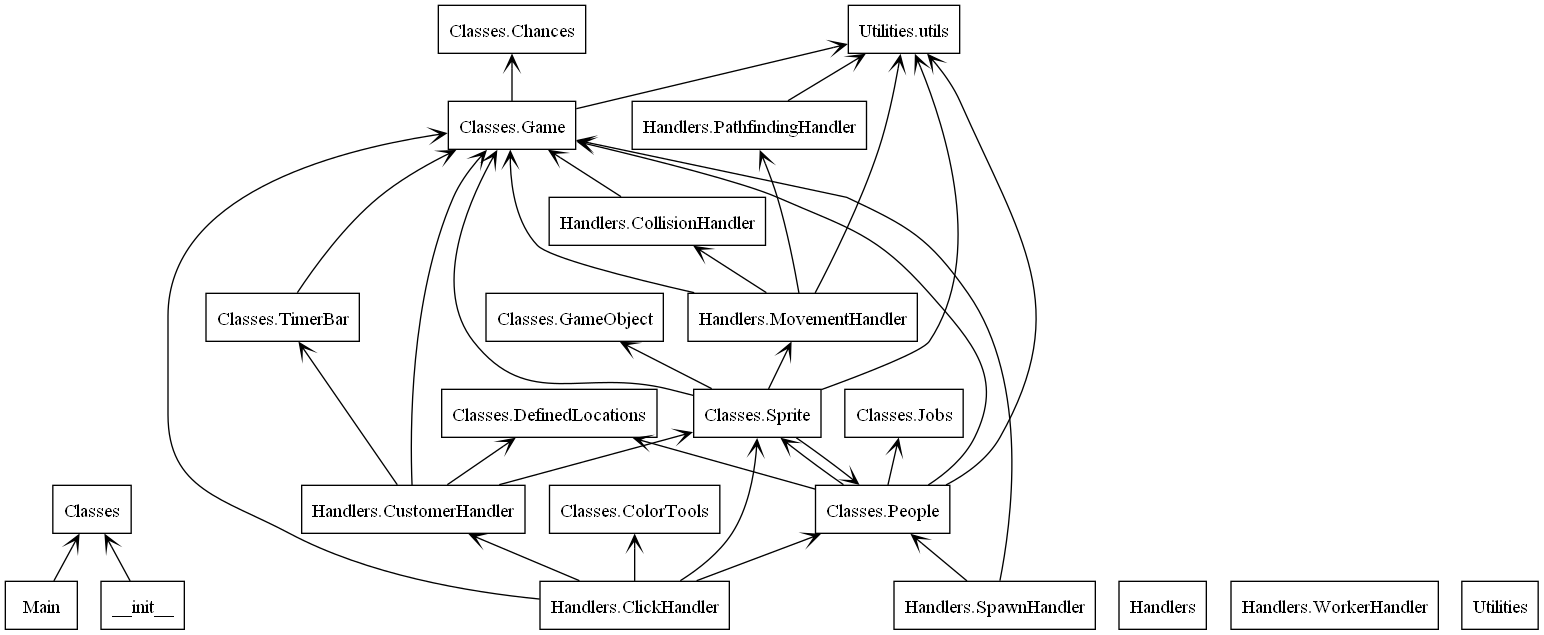
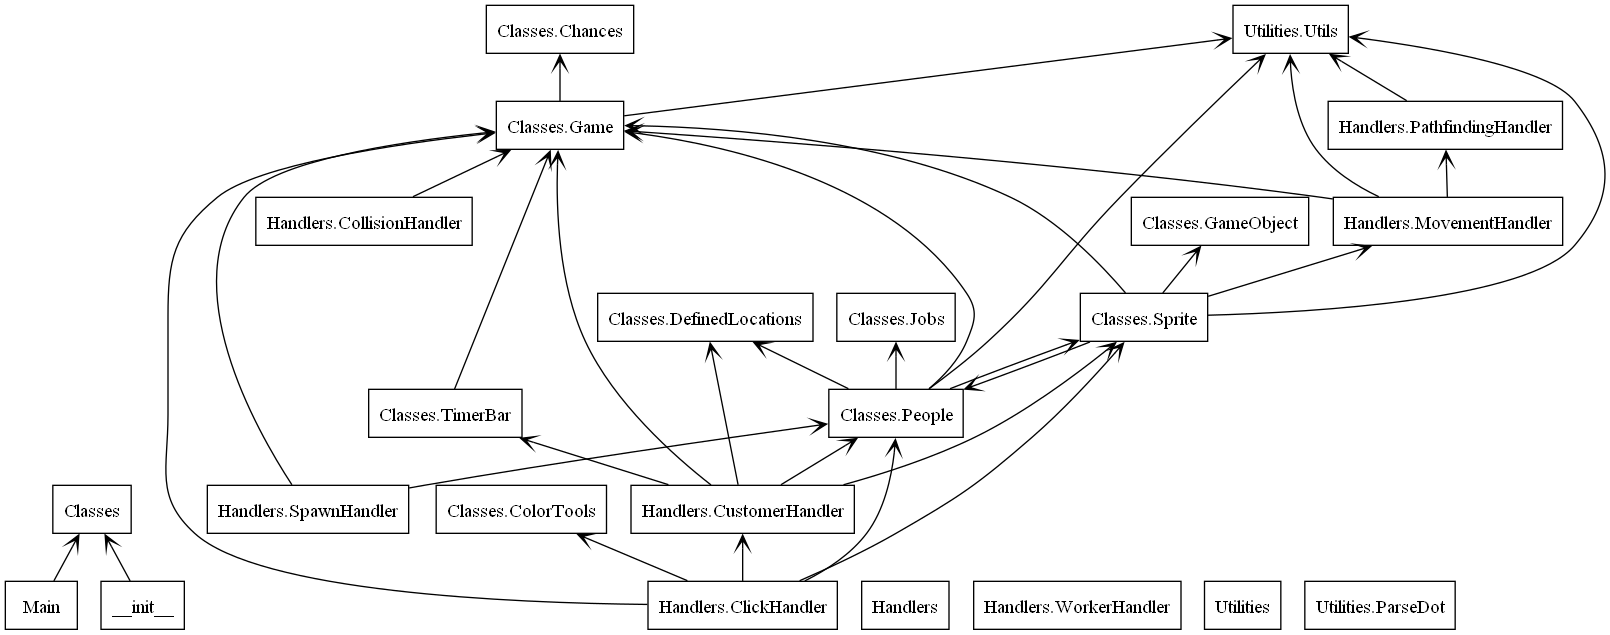
Added More Tools and Reformatting

diff --git a/Classes/People.py b/Classes/People.py
@@ -9,7 +9,7 @@ import Classes.Sprite as Sprite
 import Classes.DefinedLocations as DL
 import Utilities.Utils as utils
 
-IDCOUNT = 0
+IDCOUNT = 1
 
 
 @dataclass
@@ -47,7 +47,9 @@ class Worker(Person):
         worker = cls.Create()
         workerSprite = Sprite.CharImageSprite(
             utils.PositionRandomVariance(
-                DL.LocationDefs.KitchenLocation, (0.05, 0.75), Game.MasterGame.ScreenSize
+                DL.LocationDefs.KitchenLocation,
+                (0.05, 0.75),
+                Game.MasterGame.ScreenSize,
             ),
             Sprite.iPaths.WorkerPath,
             worker.IdNum,
@@ -58,14 +60,14 @@ class Worker(Person):
 
 
 class CustomerStates(Enum):
-    Queuing, Waiting, BeingServed, Served, LeavingAngry, *_ = range(100)
+    Null, Queuing, Waiting, BeingServed, Served, LeavingAngry, *_ = range(100)
 
 
 @dataclass
 class Customer(Person):
     DesiredJob: Jobs.Job = None
     WorkerAssigned: bool = False
-    CurrentState: CustomerStates = None
+    CurrentState: CustomerStates = CustomerStates.Null
 
     @classmethod
     def CreateCustomer(cls):
@@ -74,7 +76,9 @@ class Customer(Person):
         Game.MasterGame.JobList[-1].Assign(cust)
         customerSprite = Sprite.CharImageSprite(
             utils.PositionRandomVariance(
-                DL.LocationDefs.CustomerEntrance, (0.05, 0.1), Game.MasterGame.ScreenSize
+                DL.LocationDefs.CustomerEntrance,
+                (0.05, 0.1),
+                Game.MasterGame.ScreenSize,
             ),
             Sprite.iPaths.CustomerPath,
             cust.IdNum,

diff --git a/Utilities/Utils.py b/Utilities/Utils.py
@@ -4,7 +4,7 @@ import socket
 import random
 
 
-def CheckInternet(host="8.8.8.8", port=53, timeout=30):
+def CheckInternet(host="8.8.8.8", port=53, timeout=30) -> bool:
     """
     Host: 8.8.8.8 (google-public-dns-a.google.com)
     OpenPort: 53/tcp
@@ -18,12 +18,14 @@ def CheckInternet(host="8.8.8.8", port=53, timeout=30):
     return True
 
 
-def InRandomVariance(num, percentVariance):
+def InRandomVariance(num, percentVariance) -> float:
     varyAmount = random.randint(-100, 100) * percentVariance
     return num * varyAmount
 
 
-def PositionRandomVariance(position, percentVarianceTuple, screenSize):
+def PositionRandomVariance(
+    position, percentVarianceTuple, screenSize
+) -> tuple[int, int]:
     varyAmountX = math.ceil(
         (random.randint(-100, 100) * 0.01 * percentVarianceTuple[0] * screenSize[0])
         + position[0]
@@ -48,7 +50,7 @@ def InPercentTolerance(num1, num2, tolerance) -> bool:
     return abs(1 - (num1 / num2)) <= tolerance if num2 != 0 else 1
 
 
-def ProRateValue(value, inRange, outRange):
+def ProRateValue(value, inRange, outRange) -> int:
     return (
         value * abs(outRange[1] - outRange[0]) / abs(inRange[1] - inRange[0])
         if inRange[1] - inRange[0] != 0
@@ -56,7 +58,7 @@ def ProRateValue(value, inRange, outRange):
     )
 
 
-def Bind(val, inRange):
+def Bind(val, inRange) -> int:
     return min(inRange[1], max(inRange[0], val))
 
 

diff --git a/Classes/Sprite.py b/Classes/Sprite.py
@@ -20,7 +20,7 @@ iPaths = ImagePaths()
 
 
 class ImageTypes(Enum):
-    Worker, Customer, Table = range(3)
+    Null, Worker, Customer, Table = range(4)
 
 
 PathToTypeDict = {
@@ -32,8 +32,8 @@ PathToTypeDict = {
 
 class CharImageSprite(GameObj.GameObject):
     CorrespondingID: int = 0
-    ImageType: ImageTypes = None
-    rect: pygame.rect = None
+    ImageType: ImageTypes = ImageTypes.Null
+    rect: pygame.rect.Rect = pygame.rect.Rect(0, 0, 0, 0)
     MvmHandler: CharacterMovementHandler = None
 
     def __init__(self, position, path, objID):
@@ -41,6 +41,7 @@ class CharImageSprite(GameObj.GameObject):
         self.image = pygame.image.load(
             path
         )  # Replace with the actual sprite image file
+
         self.image = pygame.transform.scale_by(self.image, 0.1)
         self.rect = self.image.get_rect()
         self.rect.x = position[0]
@@ -69,7 +70,7 @@ class CharImageSprite(GameObj.GameObject):
 
 
 class BackgroundElementSprite(GameObj.GameObject):
-    ImageType: ImageTypes = None
+    ImageType: ImageTypes = ImageTypes.Null
 
     def __init__(self, position, path):
         super().__init__(backgroundFlag=True, moveFlag=False, collisionFlag=False)

diff --git a/Utilities/ParseDot.py b/Utilities/ParseDot.py
@@ -1,0 +1,33 @@
+"""Get stats from Dot file"""
+from dataclasses import dataclass
+
+
+@dataclass
+class Module:
+    NumDepends: int = 0
+    NumImports: int = 0
+    Name: str = ""
+
+    def __repr__(self):
+        return f"{self.Name} D:{self.NumDepends} I:{self.NumImports}"
+
+
+ModuleList: list[Module] = []
+
+with open("packages.dot", "r") as fp:
+    for line in fp:
+        if "->" in line:
+            importer = line.split(" ")[0].replace('"', "")
+            imported = line.split(" ")[2].replace('"', "")
+            # print(ModuleList, imported, importer)
+            importerModule = [x for x in ModuleList if x.Name == importer][0]
+            importedModule = [x for x in ModuleList if x.Name == imported][0]
+            importerModule.NumImports += 1
+            importedModule.NumDepends += 1
+        elif "[" in line:
+            modName = line.split(" ")[0].replace('"', "")
+            mod = Module(Name=modName)
+            ModuleList.append(mod)
+    x = sorted(ModuleList, key=lambda x: x.NumDepends, reverse=True)
+    for i in x:
+        print(i)

diff --git a/Classes/Game.py b/Classes/Game.py
@@ -39,7 +39,6 @@ class GameClock:
     ClockMul: float = 0.5
     Day: int = 1
     CurrentMonth: Month = Months[0]
-    Minute: int = 1
     Second: int = 1
 
     def __init__(self, clock):
@@ -97,8 +96,8 @@ class GameClock:
 
 class Game:
     ActiveTimerBars: list = []
-    CharSpriteGroup = pygame.sprite.Group()
-    BackgroundSpriteGroup = pygame.sprite.Group()
+    CharSpriteGroup: pygame.sprite.Group = pygame.sprite.Group()
+    BackgroundSpriteGroup: pygame.sprite.Group = pygame.sprite.Group()
     SpriteGroups: list = [BackgroundSpriteGroup, CharSpriteGroup]
     LineList: list = [(-1, -1), (1, 1)]
     WorkerList: list = []

diff --git a/Classes/Jobs.py b/Classes/Jobs.py
@@ -3,15 +3,15 @@ from dataclasses import dataclass
 from enum import Enum
 import random
 
-JOBIDCOUNT = 0
+JOBIDCOUNT = 1
 
 
 class UrgencyRatings(Enum):
-    Trivial, Urgent = range(2)
+    Null, Trivial, Urgent = range(3)
 
 
 class JobTypes(Enum):
-    Standard, Deluxe = range(2)
+    Null, Standard, Deluxe = range(3)
 
 
 @dataclass
@@ -37,8 +37,8 @@ class Job:
             * (jobtype.value + 1)
             * (urgency.value + 1)
         )
-        assignedWorker = None
-        customer = None
+        assignedWorker = 0
+        customer = 0
         job = Job(
             Type=jobtype,
             Price=price,

diff --git a/Classes/TimerBar.py b/Classes/TimerBar.py
@@ -1,5 +1,5 @@
 """Class for Timer Bars"""
-
+import math
 import pygame
 import Classes.Game as Game
 
@@ -29,7 +29,9 @@ class TimerBar:
         self.CompletionPercentage = (
             (Game.MasterGame.Clock.Minute - self.StartTime)
         ) / self.Duration
-        self.Width = min(self.CompletionPercentage * self.MaxWidth, self.MaxWidth)
+        self.Width = int(
+            math.floor(min(self.CompletionPercentage * self.MaxWidth, self.MaxWidth))
+        )
         self.Rect.width = self.Width
         self.Rect.height = self.Height
         if self.CompletionPercentage >= 1:

diff --git a/Handlers/CustomerHandler.py b/Handlers/CustomerHandler.py
@@ -1,11 +1,12 @@
 """Handler for Customer Tasks"""
 import Classes.Game as Game
 import Classes.Sprite as Sprite
+import Classes.People as People
 import Classes.TimerBar as TB
 import Classes.DefinedLocations as DL
 
 
-def FindAvailableWorker() -> bool:
+def FindAvailableWorker() -> tuple[People.Worker, Sprite.CharImageSprite]:
     availWorkers = [x for x in Game.MasterGame.WorkerList if x.IsAssigned is False]
     if len(availWorkers) < 1:
         worker, workerSprite = None, None

diff --git a/Handlers/MovementHandler.py b/Handlers/MovementHandler.py
@@ -16,7 +16,7 @@ class MovementSpeeds(Enum):
 class CharacterMovementHandler:
     OnComplete = None
     Dest: tuple = (0, 0)
-    MaxMovementSpeed: int = MovementSpeeds.Medium
+    MaxMovementSpeed: MovementSpeeds = MovementSpeeds.Medium
     MovementTolerance: float = 0.01
     InMotion: bool = False
     DstSet: bool = False
